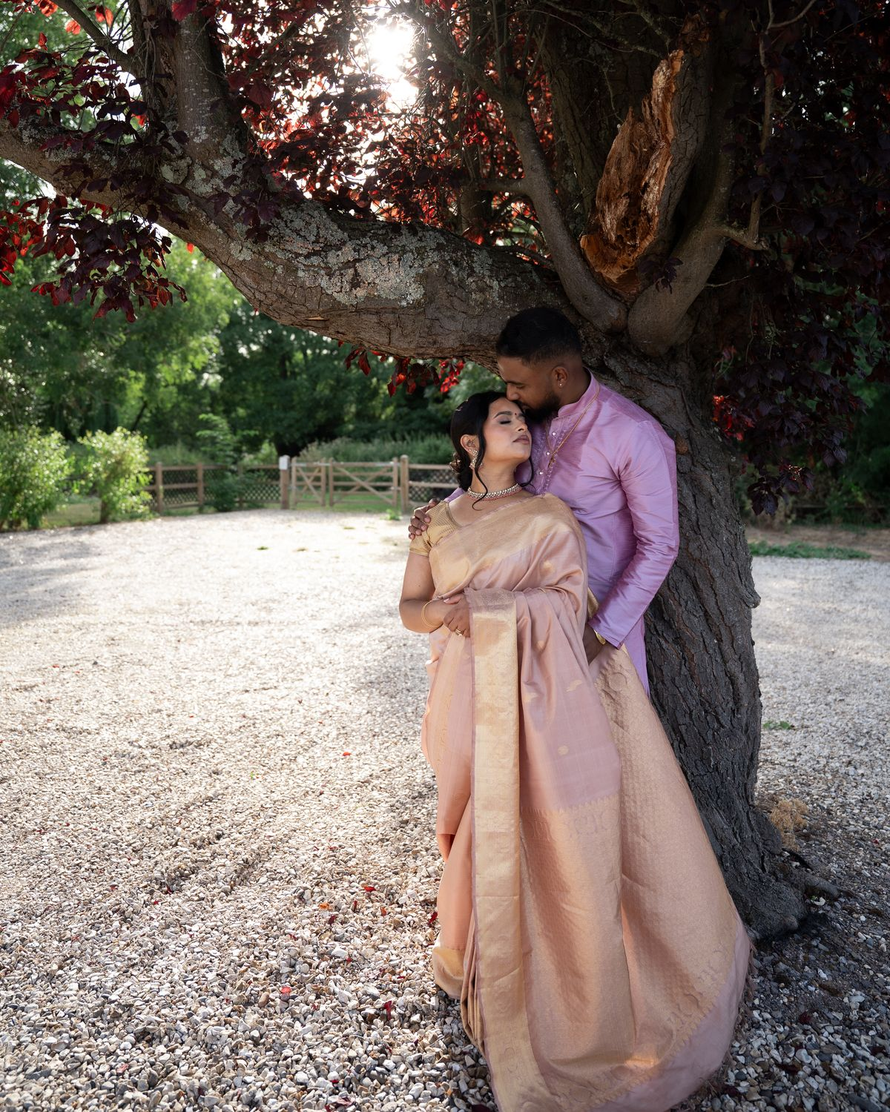
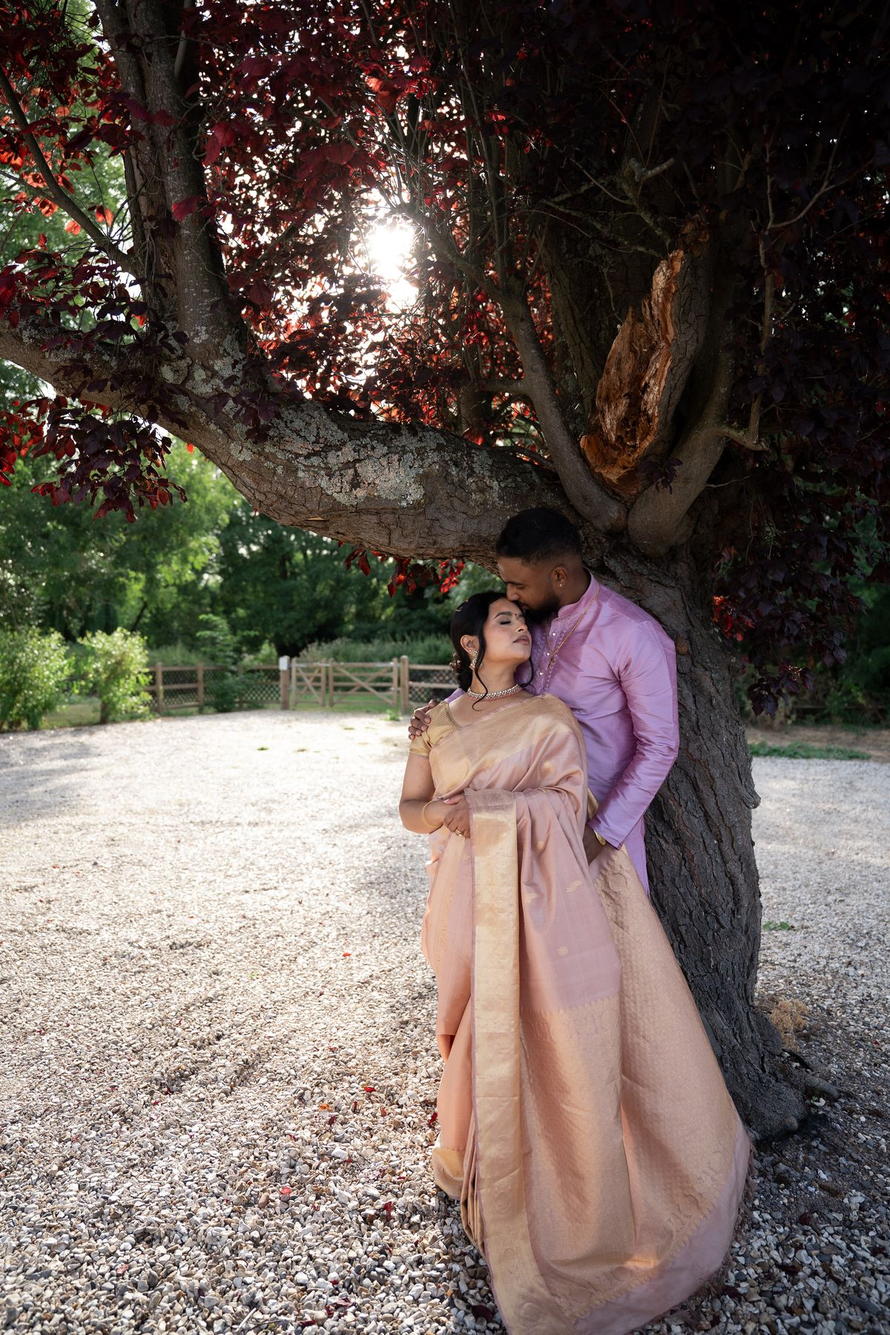
Lay out selected work as a three-across grid
All frames now share the 2:3 shape, a short last row sits centred,
and phones show two columns.

Claude-Session: https://claude.ai/code/session_01WxbvwcMwSm38xHuYr6g4Ys

diff --git a/index.html b/index.html
@@ -80,45 +80,37 @@
         <h2>A few recent pages.</h2>
       </div>
       <div class="sheet">
-        <figure class="s1">
-          <div class="frame r-wide" data-label="Work 1 · wide ceremony frame"><img src="images/work-1.jpg" alt="Hindu wedding ceremony" onerror="this.closest('figure').remove()"></div>
-          <figcaption><b>Muhurtham.</b> Hindu wedding</figcaption>
-        </figure>
-        <figure class="s2">
-          <div class="frame r-portrait" data-label="Work 2 · portrait"><img src="images/work-2.jpg" alt="A couple leaning against a tree with deep red leaves, the bride in a blush silk saree and the groom in pink, with sunlight breaking through the branches" width="1200" height="1500" loading="lazy" onerror="this.remove()"></div>
-          <figcaption><b>Late light.</b> Couple portrait</figcaption>
-        </figure>
-        <figure class="s3">
-          <div class="frame r-tall" data-label="Work 3 · tall portrait"><img src="images/work-3.jpg" alt="A couple resting together in a white rowing boat on a still, dark green lake, framed by trees" width="1200" height="1800" loading="lazy" onerror="this.remove()"></div>
-          <figcaption><b>Still water.</b> Pre-wedding shoot</figcaption>
-        </figure>
-        <figure class="s4">
-          <div class="frame r-wide" data-label="Work 4 · golden hour"><img src="images/work-4.jpg" alt="Couple in woodland at golden hour" onerror="this.closest('figure').remove()"></div>
-          <figcaption><b>Golden hour.</b> Woodland couple session</figcaption>
-        </figure>
-        <figure class="s5">
-          <div class="frame r-tall" data-label="Work 5 · tall portrait"><img src="images/work-5.jpg" alt="A couple with foreheads touching against bright backlight, her hand on his cheek showing her engagement ring" width="1200" height="1800" loading="lazy" onerror="this.remove()"></div>
-          <figcaption><b>Against the light.</b> Pre-wedding shoot</figcaption>
-        </figure>
-        <figure class="s6">
-          <div class="frame r-tall" data-label="Work 6 · tall portrait"><img src="images/work-6.jpg" alt="A bride in an embroidered plum lehenga lifts a sheer pink dupatta over her eyes, the groom softly out of focus behind her in autumn light" width="1200" height="1800" loading="lazy" onerror="this.closest('figure').remove()"></div>
-          <figcaption><b>Autumn.</b> Couple portrait</figcaption>
-        </figure>
-        <figure class="s7">
-          <div class="frame r-tall" data-label="Work 7 · tall portrait"><img src="images/work-7.jpg" alt="A couple with foreheads touching in warm light, the bride smiling softly in a white jacket and pearl drop earring" width="1200" height="1800" loading="lazy" onerror="this.closest('figure').remove()"></div>
-          <figcaption><b>Up close.</b> Couple portrait</figcaption>
-        </figure>
-        <figure class="s8">
+        <figure>
           <div class="frame r-tall" data-label="Work 8 · tall portrait"><img src="images/work-8.jpg" alt="A Hindu bride in a red silk saree and a groom in an ivory sherwani and turban stand back to back, both wearing white flower garlands, in dappled woodland light" width="1200" height="1800" loading="lazy" onerror="this.closest('figure').remove()"></div>
           <figcaption><b>Garlands.</b> Hindu wedding</figcaption>
         </figure>
-        <figure class="s9">
-          <div class="frame r-tall" data-label="Work 9 · tall portrait"><img src="images/work-9.jpg" alt="An expectant couple smile at each other in front of a floral arch, her hands resting on her bump in a lilac and purple silk saree" width="1200" height="1800" loading="lazy" onerror="this.closest('figure').remove()"></div>
-          <figcaption><b>Expecting.</b> Family celebration</figcaption>
-        </figure>
-        <figure class="s10">
+        <figure>
           <div class="frame r-tall" data-label="Work 10 · tall portrait"><img src="images/work-10.jpg" alt="A couple nose to nose beneath a sheer pearl-dotted veil, backlit, her gold temple jhumkas catching the light" width="1200" height="1800" loading="lazy" onerror="this.closest('figure').remove()"></div>
           <figcaption><b>Under the veil.</b> Couple portrait</figcaption>
+        </figure>
+        <figure>
+          <div class="frame r-tall" data-label="Work 2 · portrait"><img src="images/work-2.jpg" alt="A couple leaning against a tree with deep red leaves, the bride in a blush silk saree and the groom in pink, with sunlight breaking through the branches" width="1200" height="1800" loading="lazy" onerror="this.remove()"></div>
+          <figcaption><b>Late light.</b> Couple portrait</figcaption>
+        </figure>
+        <figure>
+          <div class="frame r-tall" data-label="Work 7 · tall portrait"><img src="images/work-7.jpg" alt="A couple with foreheads touching in warm light, the bride smiling softly in a white jacket and pearl drop earring" width="1200" height="1800" loading="lazy" onerror="this.closest('figure').remove()"></div>
+          <figcaption><b>Up close.</b> Couple portrait</figcaption>
+        </figure>
+        <figure>
+          <div class="frame r-tall" data-label="Work 3 · tall portrait"><img src="images/work-3.jpg" alt="A couple resting together in a white rowing boat on a still, dark green lake, framed by trees" width="1200" height="1800" loading="lazy" onerror="this.remove()"></div>
+          <figcaption><b>Still water.</b> Pre-wedding shoot</figcaption>
+        </figure>
+        <figure>
+          <div class="frame r-tall" data-label="Work 5 · tall portrait"><img src="images/work-5.jpg" alt="A couple with foreheads touching against bright backlight, her hand on his cheek showing her engagement ring" width="1200" height="1800" loading="lazy" onerror="this.remove()"></div>
+          <figcaption><b>Against the light.</b> Pre-wedding shoot</figcaption>
+        </figure>
+        <figure>
+          <div class="frame r-tall" data-label="Work 6 · tall portrait"><img src="images/work-6.jpg" alt="A bride in an embroidered plum lehenga lifts a sheer pink dupatta over her eyes, the groom softly out of focus behind her in autumn light" width="1200" height="1800" loading="lazy" onerror="this.closest('figure').remove()"></div>
+          <figcaption><b>Autumn.</b> Couple portrait</figcaption>
+        </figure>
+        <figure>
+          <div class="frame r-tall" data-label="Work 9 · tall portrait"><img src="images/work-9.jpg" alt="An expectant couple smile at each other in front of a floral arch, her hands resting on her bump in a lilac and purple silk saree" width="1200" height="1800" loading="lazy" onerror="this.closest('figure').remove()"></div>
+          <figcaption><b>Expecting.</b> Family celebration</figcaption>
         </figure>
       </div>
       <div class="sheet-foot">

diff --git a/styles.css b/styles.css
@@ -195,26 +195,17 @@ p { margin: 0; }
 }
 .section-head p { max-width: 38rem; color: var(--ink-soft); }
 
-/* Selected work: an uneven contact sheet */
+/* Selected work: a contact sheet, three across */
 .sheet {
   display: grid;
-  grid-template-columns: repeat(12, minmax(0, 1fr));
-  gap: clamp(0.75rem, 2vw, 1.5rem);
-  grid-auto-flow: dense;
+  grid-template-columns: repeat(6, minmax(0, 1fr));
+  gap: clamp(1.5rem, 3vw, 2.5rem) clamp(0.75rem, 2vw, 1.5rem);
 }
-.sheet figure { margin: 0; display: grid; gap: 0.75rem; align-content: start; min-width: 0; }
+.sheet figure { grid-column: span 2; margin: 0; display: grid; gap: 0.75rem; align-content: start; min-width: 0; }
 .sheet figcaption { font-size: var(--step--1); color: var(--ink-soft); }
+/* A short last row sits centred instead of hanging left */
+.sheet figure:nth-last-child(2):nth-child(3n+1) { grid-column: 2 / span 2; }
 .sheet figcaption b { font-weight: 400; color: var(--ink); }
-.s1 { grid-column: 1 / span 7; }
-.s2 { grid-column: 9 / span 4; margin-top: 18%; }
-.s3 { grid-column: 2 / span 4; }
-.s4 { grid-column: 7 / span 6; margin-top: 10%; }
-.s5 { grid-column: 7 / span 4; }
-.s6 { grid-column: 2 / span 4; margin-top: 14%; }
-.s7 { grid-column: 9 / span 4; }
-.s8 { grid-column: 3 / span 4; }
-.s9 { grid-column: 8 / span 4; }
-.s10 { grid-column: 2 / span 4; }
 .sheet-foot {
   display: flex;
   justify-content: space-between;
@@ -387,8 +378,8 @@ p { margin: 0; }
   .about .frame { max-width: 26rem; }
 }
 @media (max-width: 600px) {
-  .sheet { grid-template-columns: minmax(0, 1fr); }
-  .s1, .s2, .s3, .s4, .s5, .s6, .s7, .s8, .s9, .s10 { grid-column: auto; margin-top: 0; }
+  .sheet { grid-template-columns: repeat(2, minmax(0, 1fr)); }
+  .sheet figure, .sheet figure:nth-last-child(2):nth-child(3n+1) { grid-column: auto; }
   .ceremonies { grid-template-columns: minmax(0, 1fr); }
   .ceremony, .ceremony:nth-child(even) { padding: 1.75rem 0 2rem; border-left: 0; }
   .steps { grid-template-columns: minmax(0, 1fr); }

diff --git a/README.md b/README.md
@@ -11,15 +11,12 @@ A one-page static site: plain HTML and CSS, no build step, no monthly fees.
 ## 1. Add your photos
 Drop JPEGs into `images/` with these exact names. Any slot without a photo shows a labelled placeholder, so you can add them one at a time.
 
-| File | Shape | Suggested picture |
+| File | Shape | Where |
 |---|---|---|
-| `hero-1.jpg` | tall 2:3 | your strongest couple portrait |
-| `hero-2.jpg` | 4:5 | a candid or detail frame |
-| `work-1.jpg` | wide 3:2 | Tamil/Hindu ceremony moment |
-| `work-2.jpg` | 4:5 | clifftop pre-wedding |
-| `work-3.jpg` | tall 2:3 | Catholic ceremony |
-| `work-4.jpg` | wide 3:2 | woodland golden hour |
-| `about.jpg` | 4:5 | a quiet behind-the-scenes or detail frame (no faces needed) |
+| `hero-1.jpg` | tall 2:3 | main hero image |
+| `hero-2.jpg` | 4:5 | small hero image |
+| `work-*.jpg` | tall 2:3 | Selected work, three across (order is set in `index.html`) |
+| `about.jpg` | 4:5 | About section |
 | `og-image.jpg` | 1200x630 | the picture shown when the link is shared |
 
 Export from Lightroom at about 2000px on the long edge, quality 75 to 80, so each file stays under ~500 KB. Change the captions in `index.html` if the pictures differ.
